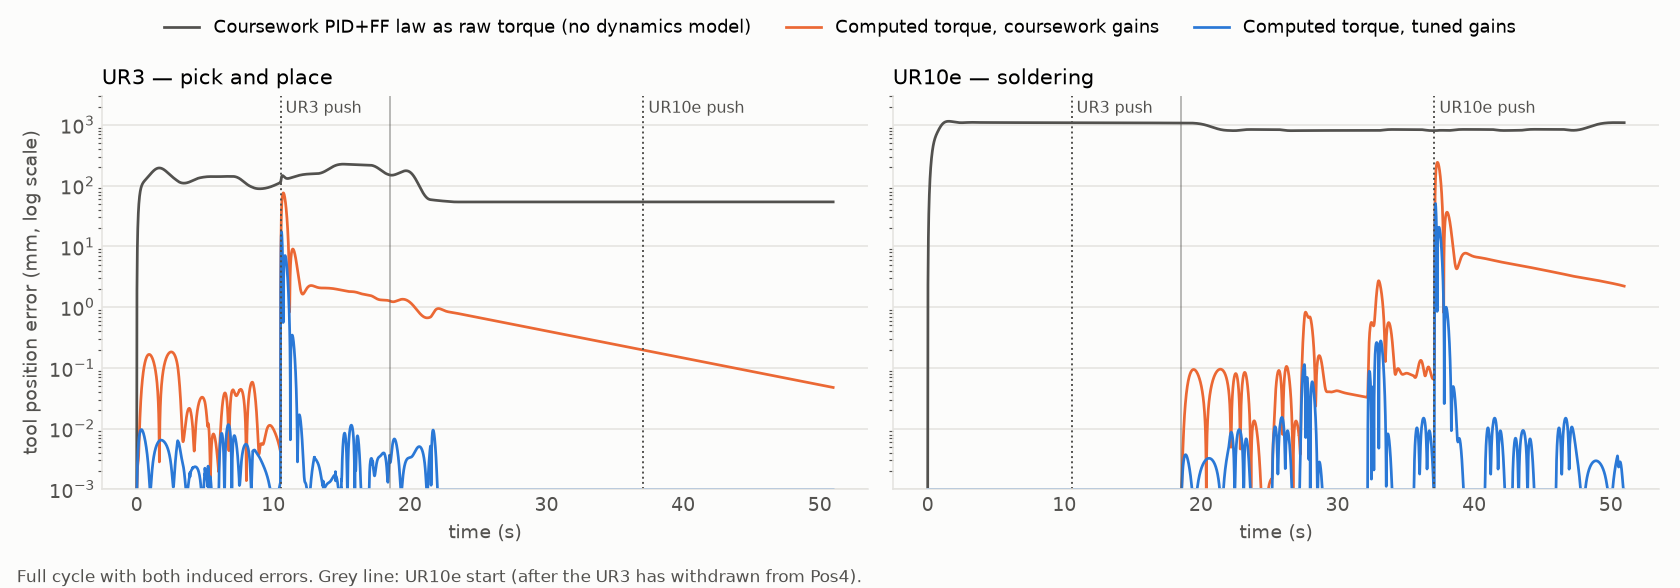
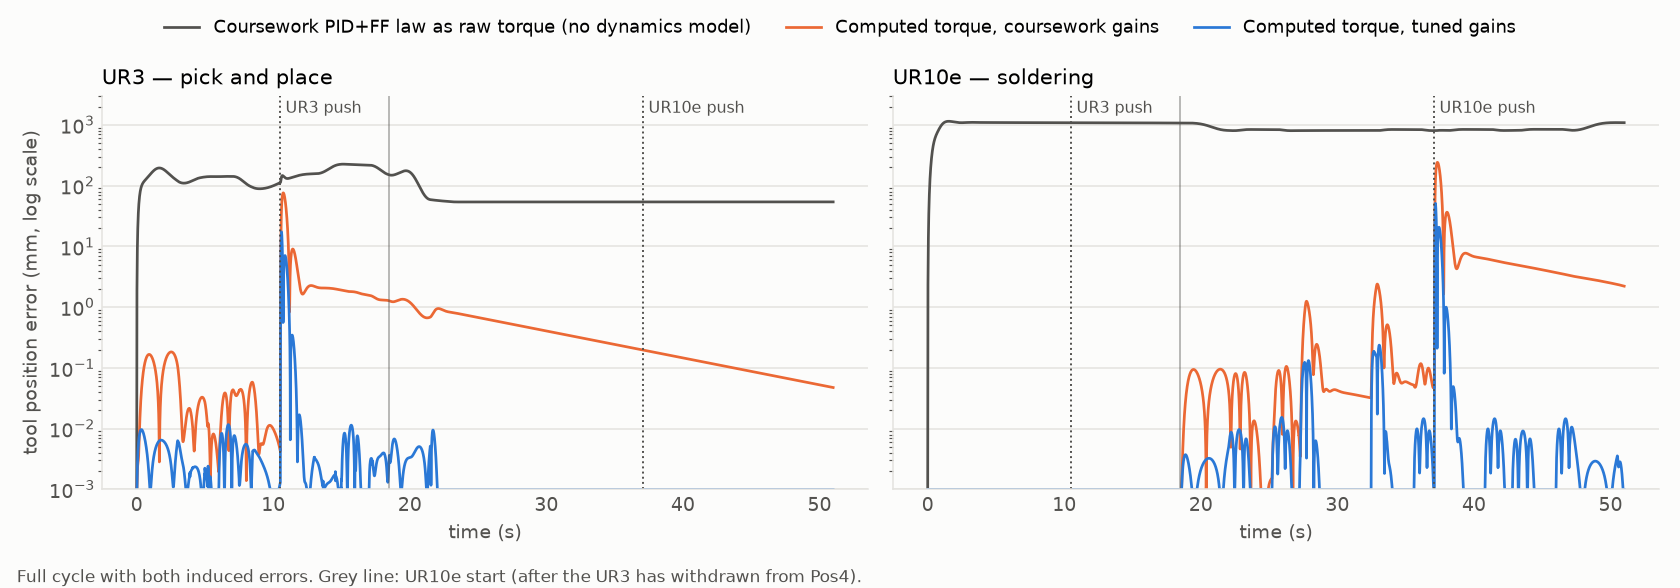
Route the operator's hand round the end of the shield
The hand previously cut through the shield and its forearm always pointed
along +X. It now follows a path round the shield's end (>= 28 mm
clearance, checked geometrically) with the forearm trailing back along
the path. Results, figures and README updated (UR10e stop 4.8 s).

Changed region(s): [[0.7119, 0.4898, 0.8667, 0.8265], [0.9286, 0.7653, 0.9595, 0.8265]]

diff --git a/mujoco_sim/simulate.py b/mujoco_sim/simulate.py
@@ -109,23 +109,52 @@ def _min_dist(m, d, ga, gb, cap=1.0):
     return min(mujoco.mj_geomDistance(m, d, a, b, cap, ft) for a in ga for b in gb)
 
 
-HAND_PTS = np.array([[1.30, 1.80, 0.32], [0.80, 1.70, 0.28], [0.50, 1.22, 0.22]])
+# The operator stands on the far side of the shield (X > 0.76 m), reaches
+# round its end (Y = 1.58 m) with ~10 cm clearance, then toward the PCB.
+HAND_PTS = np.array([[1.35, 1.45, 0.30], [0.97, 1.70, 0.28], [0.64, 1.71, 0.26],
+                     [0.50, 1.30, 0.22]])
 HAND_PARK = np.array([3.0, 3.0, -3.0])        # out of sight until needed
+FOREARM = 0.30                                # m: forearm trails this far along the path
+HAND_OUT, HAND_HOLD, HAND_BACK = 2.8, 2.5, 2.4   # s: reach in, hold, withdraw
+
+
+def _polyline(pts, n=400):
+    seg = np.linalg.norm(np.diff(pts, axis=0), axis=1)
+    s = np.r_[0, np.cumsum(seg)]
+    u = np.linspace(0, s[-1], n)
+    return u, np.column_stack([np.interp(u, s, pts[:, k]) for k in range(3)])
+
+
+_HAND_S, _HAND_XYZ = _polyline(HAND_PTS)
+
+
+def _along(s):
+    """Point at arc length s on the hand path (extended straight before its start)."""
+    if s < 0:
+        back = HAND_PTS[0] - HAND_PTS[1]
+        return HAND_PTS[0] + (-s) * back / np.linalg.norm(back)
+    return np.array([np.interp(s, _HAND_S, _HAND_XYZ[:, k]) for k in range(3)])
 
 
 def _hand_path(t, t0):
-    """Operator reaches round the end of the shield toward the PCB, holds,
-    and withdraws."""
-    legs = [(t0, t0 + 1.0, 0, 1), (t0 + 1.0, t0 + 2.2, 1, 2),
-            (t0 + 4.7, t0 + 5.9, 2, 1), (t0 + 5.9, t0 + 6.9, 1, 0)]
-    for a, b, i, j in legs:
-        if a <= t < b:
-            s = (t - a) / (b - a)
-            s = 10 * s**3 - 15 * s**4 + 6 * s**5
-            return HAND_PTS[i] + s * (HAND_PTS[j] - HAND_PTS[i])
-    if t0 + 2.2 <= t < t0 + 4.7:
-        return HAND_PTS[2]
-    return HAND_PARK
+    """Hand pose (pos, quat): reaches in along the path, holds, withdraws the
+    same way. The forearm points back along the path, so it bends round the
+    shield's end with the hand instead of cutting through the shield."""
+    L = _HAND_S[-1]
+    tau = t - t0
+    if tau < 0 or tau > HAND_OUT + HAND_HOLD + HAND_BACK:
+        return HAND_PARK, np.array([1.0, 0, 0, 0])
+    if tau < HAND_OUT:
+        x = tau / HAND_OUT
+    elif tau < HAND_OUT + HAND_HOLD:
+        x = 1.0
+    else:
+        x = 1.0 - (tau - HAND_OUT - HAND_HOLD) / HAND_BACK
+    s = L * (10 * x**3 - 15 * x**4 + 6 * x**5)
+    p = _along(s)
+    behind = _along(s - FOREARM) - p
+    yaw = np.arctan2(-behind[1], -behind[0])       # +x (fingers) points away from the arm
+    return p, np.array([np.cos(yaw / 2), 0, 0, np.sin(yaw / 2)])
 
 
 def _seg_time(plan, label, frac):
@@ -183,7 +212,7 @@ def run(controller="ct", gains="tuned", model_error=0.0, push=True, human=True,
             plan10 = plan_ur10e(m, d.mocap_pos[pcb].copy(), d.mocap_quat[pcb].copy(), speed)
             ref10 = Reference(plan10)
             push10_t = _seg_time(plan10, "to pad 3", 0.5)
-            human_t0 = start10 + _seg_time(plan10, "solder pad 2", 0.2) - 2.2
+            human_t0 = start10 + _seg_time(plan10, "solder pad 2", 0.2) - HAND_OUT
         if ref10 is None:
             q_ref[6:], tool10_cmd, lab10 = HOME_UR, 0.0, "wait"
         else:
@@ -192,7 +221,7 @@ def run(controller="ct", gains="tuned", model_error=0.0, push=True, human=True,
 
         # ── operator's hand + speed and separation monitoring (every 10 ms) ──
         if human and human_t0 is not None:
-            d.mocap_pos[hand] = _hand_path(t, human_t0)
+            d.mocap_pos[hand], d.mocap_quat[hand] = _hand_path(t, human_t0)
             if t >= human_t0 and k % 10 == 0:
                 mujoco.mj_kinematics(m, d)
                 hand_d = _min_dist(m, d, g_hand, g10)

diff --git a/mujoco_sim/build_scene.py b/mujoco_sim/build_scene.py
@@ -139,12 +139,13 @@ def _workcell_spec():
         pcb.add_site(name=f"solder{i + 1}", pos=[u * MM, v * MM, pt / 2], size=[0.0015, 0, 0],
                      rgba=[1, 0.8, 0, 0])
 
-    # operator's hand + forearm (mocap), parked off the bench until used
+    # operator's hand + forearm (mocap), parked off the bench until used.
+    # Fingers point along +x; the forearm trails behind along -x.
     hand = w.add_body(name="hand", mocap=True, pos=[3.0, 3.0, -3.0])
     hand.add_geom(name="hand", type=mujoco.mjtGeom.mjGEOM_BOX, size=[0.045, 0.02, 0.012],
                   rgba=[0.87, 0.67, 0.55, 1], contype=0, conaffinity=0)
     hand.add_geom(name="forearm", type=mujoco.mjtGeom.mjGEOM_CAPSULE,
-                  fromto=[0.04, 0, 0, 0.32, 0, 0.05], size=[0.035, 0, 0],
+                  fromto=[-0.05, 0, 0.005, -0.32, 0, 0.03], size=[0.035, 0, 0],
                   rgba=[0.25, 0.35, 0.55, 1], contype=0, conaffinity=0)
     return s
 

diff --git a/README.md b/README.md
@@ -19,7 +19,7 @@ rigid-body dynamics to test Part C properly.
   2 of 4 pads are hit, and none under a 15 % model error.
 - **Induced errors are handled**: a 30 N / 100 N knock on each tool is rejected within
   0.7 s (back under 0.5 mm), and an operator's hand reaching round the shield **stops the UR10e for
-  4.3 s** (speed and separation monitoring) before it resumes and finishes.
+  4.8 s** (speed and separation monitoring) before it resumes and finishes.
 - **Singularities are avoided by design**: IK is locked to one solution branch, so
   manipulability never drops below 58 % (UR3) / 37 % (UR10e) of peak.
 - **Workspace analysis drives the grasp**: with the gripper pointing down the UR3
@@ -147,7 +147,8 @@ the integral term leaves a ~10 s tail after any disturbance. The tuned gains
 - **Unexpected collision:** a 50 ms knock on each tool — 30 N down on the UR3 while it
   carries the PCB, 100 N sideways on the UR10e between pads 2 and 3.
 - **Unexpected human movement:** an operator's hand reaches round the end of the
-  shield toward the PCB while the UR10e is soldering. **Speed and separation
+  shield toward the PCB while the UR10e is soldering, routed round the shield's end
+  (it never comes closer than 28 mm to the shield). **Speed and separation
   monitoring** (as in ISO/TS 15066) scales the UR10e's path speed down below 400 mm
   separation and stops it below 250 mm; the path clock resumes when the hand
   withdraws, so the task completes without re-planning.
@@ -162,11 +163,11 @@ Full cycle with both induced errors in every scenario.
 
 | scenario | UR3 mean tool error (mm) | UR10e mean tool error (mm) | PCB placement error (mm) | pads within 1 mm | UR10e stopped for operator (s) | cycle (s) |
 |---|---|---|---|---|---|---|
-| Coursework PID+FF law as raw torque | 93.86 | 932.29 | 85.7 | 0/4 (worst 838.41 mm) | 4.3 | 50.5 |
-| Computed torque, coursework gains | 1.10 | 3.28 | 1.9 | 2/4 (worst 3.71 mm) | 4.3 | 50.5 |
-| Computed torque, tuned gains | 0.08 | 0.23 | 0.0 | 4/4 (worst 0.00 mm) | 4.3 | 50.5 |
-| Computed torque, coursework gains, model +15 % | 9.55 | 9.78 | 17.2 | 0/4 (worst 4.13 mm) | 4.3 | 50.5 |
-| Computed torque, tuned gains, model +15 % | 0.12 | 0.25 | 0.0 | 4/4 (worst 0.00 mm) | 4.3 | 50.5 |
+| Coursework PID+FF law as raw torque | 93.84 | 932.18 | 85.7 | 0/4 (worst 838.80 mm) | 4.8 | 50.5 |
+| Computed torque, coursework gains | 1.10 | 3.28 | 1.9 | 2/4 (worst 3.71 mm) | 4.8 | 50.5 |
+| Computed torque, tuned gains | 0.08 | 0.23 | 0.0 | 4/4 (worst 0.00 mm) | 4.8 | 50.5 |
+| Computed torque, coursework gains, model +15 % | 9.55 | 9.77 | 17.2 | 0/4 (worst 4.13 mm) | 4.8 | 50.5 |
+| Computed torque, tuned gains, model +15 % | 0.12 | 0.25 | 0.0 | 4/4 (worst 0.00 mm) | 4.8 | 50.5 |
 
 ---
 
